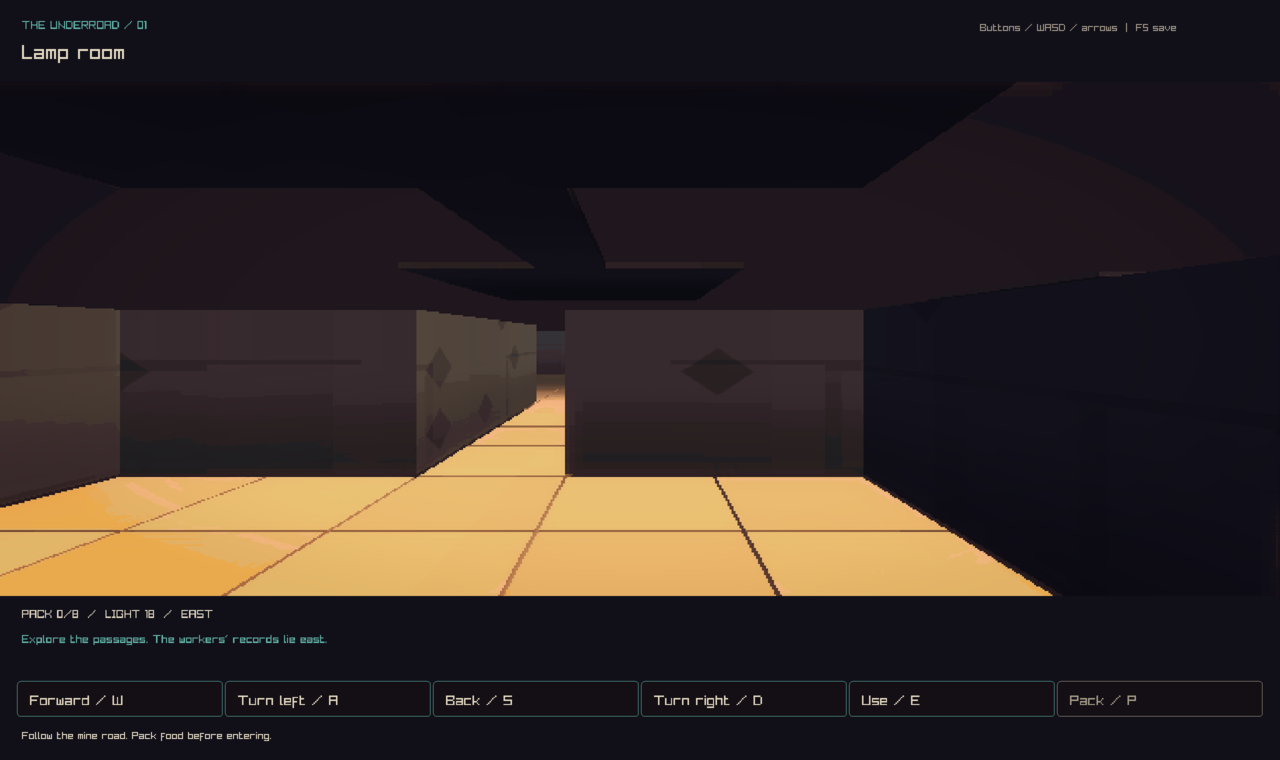
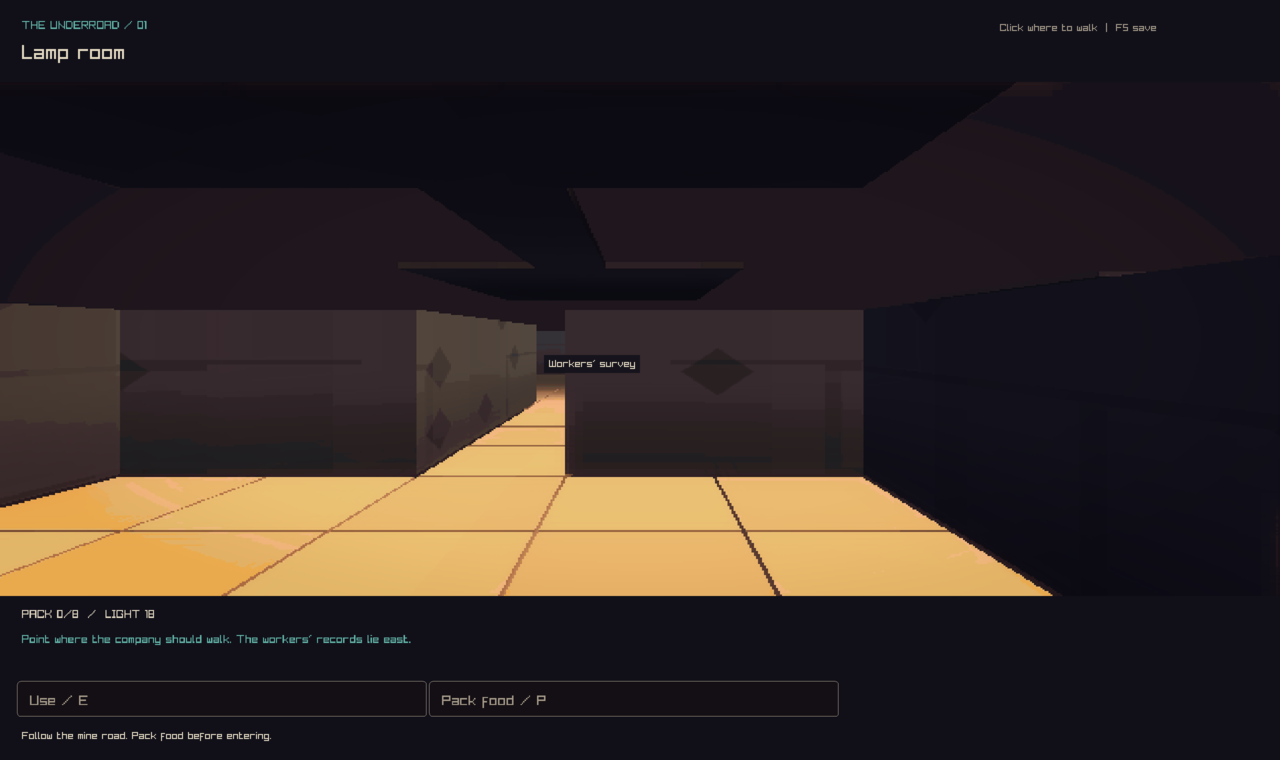
Point where the company should walk, in both mine views
The yard had become a keypad. Shipping the first-person mine took its
click-to-walk out -- the PR called it retiring click-to-path with the overhead
camera, but the yard never became first person; it kept its composed camera and
simply lost the ability to walk where you pointed. What remained was six
cardinal buttons in a scene that is otherwise authored: buildings, roofs, a
waiting carriage, a mouth in the hillside.

Worse, the level got a seventh control scheme of its own. The game already has
one way to move -- point at the ground -- and this added step-and-turn beside
it.

Both views now take the same order. MinePathStep is back, and one ray picks a
floor tile through whichever camera is current, because the floor is the same
plane whether the camera stands over the yard or at eye height in a passage.
The company walks the path a step at a time; underground the eye turns to face
the way it went, so the camera follows the walk instead of dictating it.
Walking into a doorway still uses it, so the seam is never a button.

The cardinal pad is gone. What is left is the two things a place affords --
the action under the company's feet, and packing food -- plus the world labels
that name the mouth and the carriage, restored from before the regression and
now dropped when they sit behind the eye, where projection would otherwise
float them over the passage ahead.

Keyboard still works and still turns in place underground: a bare key has no
[…]

diff --git a/src/client/main.c b/src/client/main.c
@@ -253,6 +253,7 @@ typedef struct LocalState {
     int32_t mine_facing;
     CcMinePhase mine_view_phase;
     float mine_cooldown;
+    int32_t mine_target_x, mine_target_y;
     CcLocalConvoyState convoy;
     CcLocalWorldCarriageState world_carriage;
     CcClientDepartureTransition departure;
@@ -8391,7 +8392,7 @@ static void HandleInput(CcJournal **journal, CcSim *sim, int32_t *selected,
             *save_feedback_age=0.0f;
             (void)SaveClientWorld(*journal,sim,local,save_path,session_path,save_feedback,save_feedback_capacity);
             (void)snprintf(message,message_capacity,"%s",save_feedback);
-        } else HandleMineInput(*journal,sim,local,delta_time,message,message_capacity);
+        } else HandleMineInput(*journal,sim,local,local_target,delta_time,message,message_capacity);
         return;
     }
     if (HandleCaravanRecovery(local, view, return_view, GetTime(),
